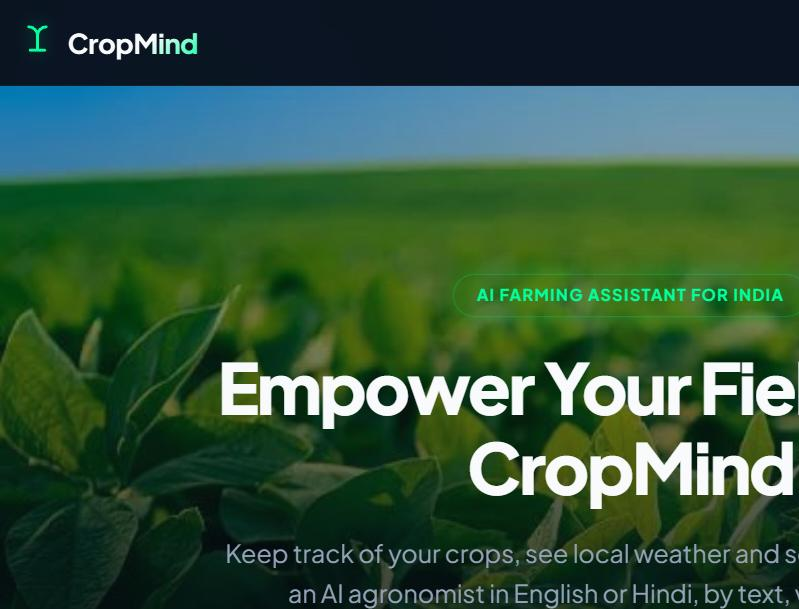
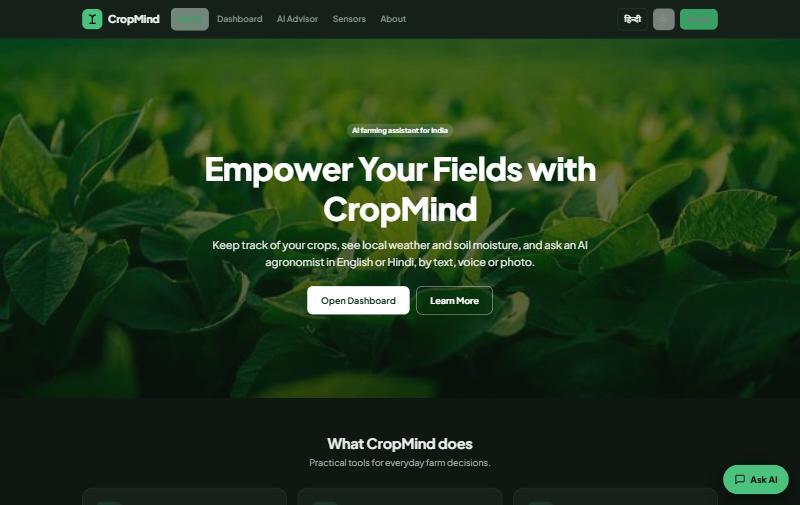
Replace placeholder graphics with real screenshots, fix image cropping
- Capture real screenshots of ShrinkByte, Calcora, and IME by running
  each project locally (ShrinkByte's Node server, Calcora's static
  server, IME's actual Streamlit UI with a sample email processed
  through it), replacing the branded placeholder icons
- Recapture the CropMind screenshot at a proper desktop width so the
  full headline is visible instead of being cut off
- Fix image cropping: object-cover was center-cropping tightly enough
  to clip headline text on some cards; switched to object-top so the
  crop favors the top of each screenshot where the key content sits

diff --git a/src/data/projects.ts b/src/data/projects.ts
@@ -40,7 +40,7 @@ export const projects: Project[] = [
       "ShrinkByte implements lossless file compression using Huffman coding, built as a practical application of Data Structures (frequency tables, min-heaps, binary trees) in C/C++, with a Node.js/Express layer and a simple web UI on top. It compresses suitable files, decompresses them, and verifies the recovered file is byte-for-byte identical to the original — the goal was understanding the compression process from first principles rather than using an existing library.",
     techStack: ["C++", "C", "Node.js", "Express", "JavaScript"],
     repoUrl: "https://github.com/deepanshi-code/ShrinkByte",
-    image: "/project-images/shrinkbyte.svg",
+    image: "/project-images/shrinkbyte.jpg",
   },
   {
     slug: "orbit",
@@ -63,7 +63,7 @@ export const projects: Project[] = [
       "Calcora bundles a scientific calculator, function plotter, calculus tools, unit and currency converters, a BMI calculator, and a searchable formula library into a single dependency-free, offline-capable (PWA) web app. It's validated with a dedicated test suite plus an accuracy benchmark checked against an independent Python reference implementation, and a mutation-testing script that plants known bugs to prove the benchmark can actually catch regressions.",
     techStack: ["JavaScript", "HTML", "CSS", "Service Worker / PWA"],
     repoUrl: "https://github.com/deepanshi-code/CalCora",
-    image: "/project-images/calcora.svg",
+    image: "/project-images/calcora.jpg",
   },
   {
     slug: "ime-email-segregation",
@@ -74,7 +74,7 @@ export const projects: Project[] = [
       "Built for the IME Innovation Challenge under TBI-GEU, this system processes unstructured shipping and chartering emails (vessel availability, voyage charter cargo requests, time charter requirements) and converts them into structured, machine-readable JSON — without calling any external LLM API. It identifies the email category and extracts the relevant business fields using local Python processing, automating a task that otherwise requires manually reading each email.",
     techStack: ["Python"],
     repoUrl: "https://github.com/deepanshi-code/IME_EMIAL_SEGREGATION",
-    image: "/project-images/ime-email-segregation.svg",
+    image: "/project-images/ime-email-segregation.jpg",
   },
   {
     slug: "password-generator",

diff --git a/src/components/ProjectRow.tsx b/src/components/ProjectRow.tsx
@@ -36,7 +36,7 @@ export default function ProjectRow({
               alt={`${project.title} preview`}
               fill
               sizes="(min-width: 1024px) 50vw, 100vw"
-              className="object-cover transition-transform duration-500 group-hover:scale-105"
+              className="object-cover object-top transition-transform duration-500 group-hover:scale-105"
             />
           )}
           <span className="absolute left-3 top-3 rounded-full bg-background/80 px-2.5 py-1 font-mono text-xs text-muted backdrop-blur-sm">

diff --git a/src/app/projects/[slug]/page.tsx b/src/app/projects/[slug]/page.tsx
@@ -37,7 +37,7 @@ export default async function ProjectDetailPage({ params }: Props) {
               alt={`${project.title} preview`}
               fill
               sizes="(min-width: 1024px) 768px, 100vw"
-              className="object-cover"
+              className="object-cover object-top"
               priority
             />
           </div>
